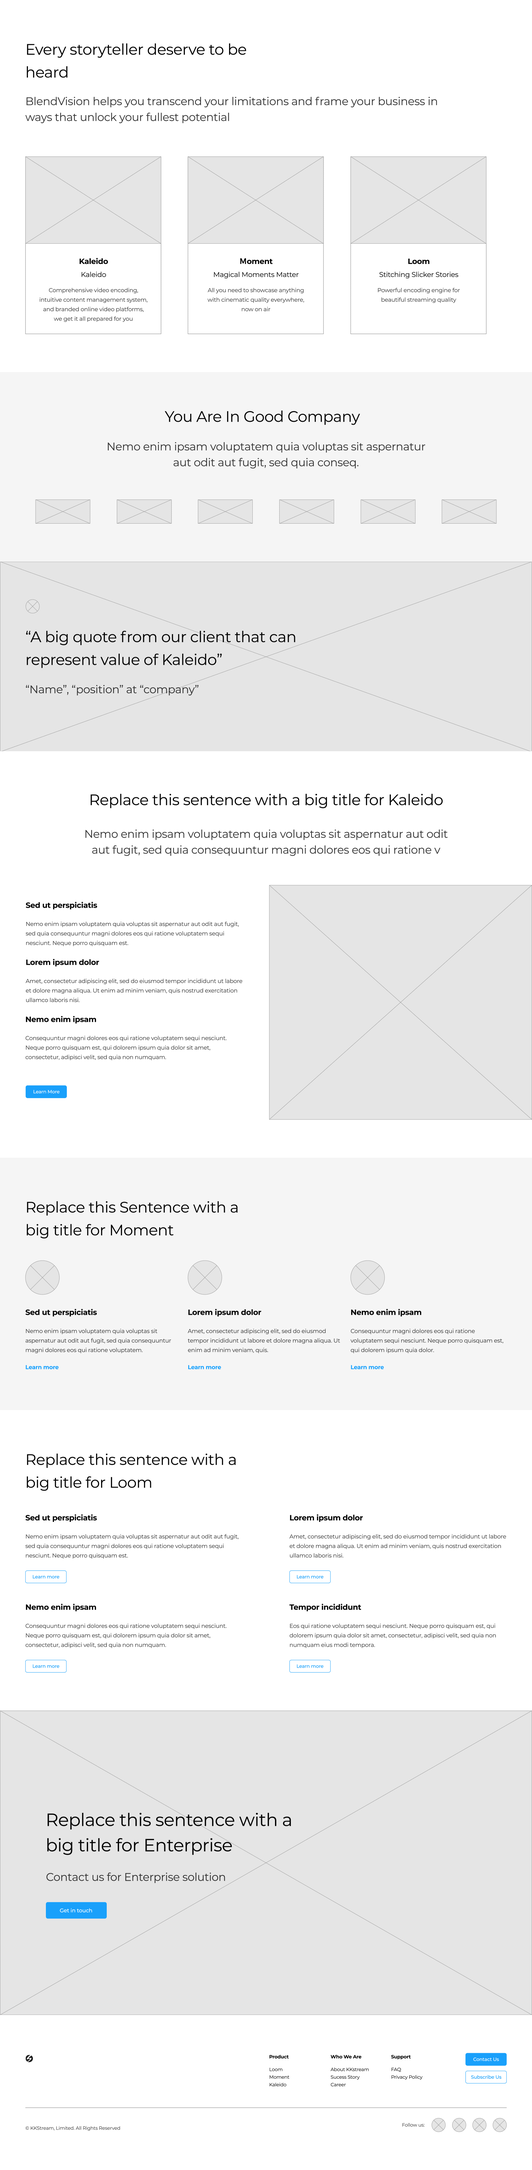
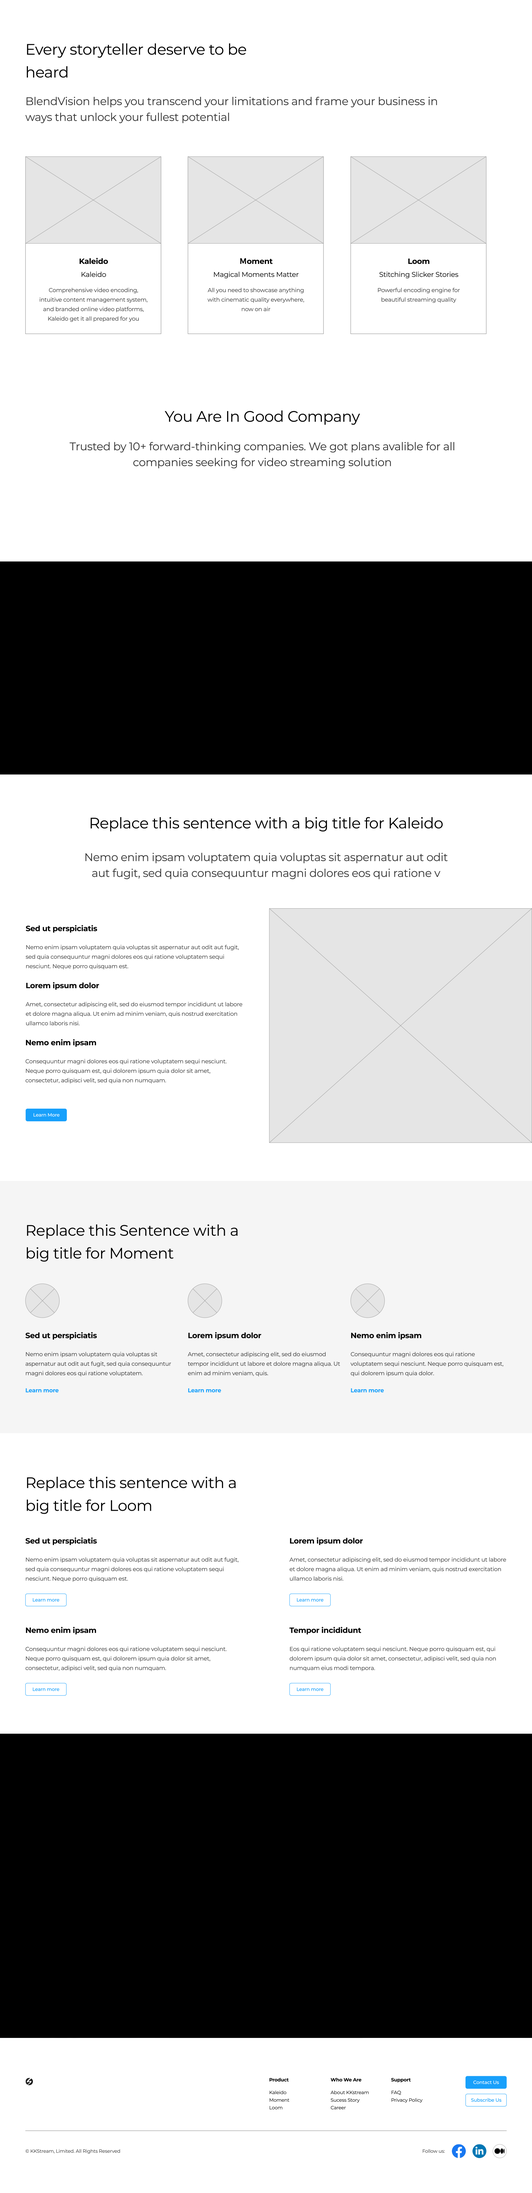
bv

diff --git a/KKSBV20210223A/css/index.css b/KKSBV20210223A/css/index.css
@@ -1,1 +1,1 @@
-.version.index{color:#0000FC;background-color:#1C5F7D;}#page{z-index:1;width:1600px;min-height:1000px;background-image:none;border-width:0px;border-color:#000000;background-color:transparent;margin-left:auto;margin-right:auto;}#pu8931{z-index:2;width:0.01px;padding-bottom:0px;margin-right:-10000px;margin-top:-230px;}#u8931{z-index:2;width:401px;height:180px;border-width:0px;border-color:transparent;background-color:transparent;max-width:100000px;position:relative;}#u19409{z-index:29;width:1600px;background-color:transparent;margin-top:108px;position:relative;}#pu19335{z-index:3;width:0.01px;}#u19335{z-index:3;min-height:6528px;background-color:#FFFFFF;}#u19335_align_to_page{margin-left:auto;margin-right:auto;position:relative;width:1600px;}#u19389{z-index:4;width:1600px;background-color:transparent;position:relative;margin-right:-10000px;margin-top:1px;}#u24342{z-index:6;width:1600px;background-color:transparent;position:relative;margin-right:-10000px;margin-top:6063px;}#u24106{z-index:8;width:1600px;background-color:transparent;position:relative;margin-right:-10000px;margin-top:1631px;}#u19473{z-index:10;width:170px;height:83px;position:relative;margin-right:-10000px;margin-top:3243px;left:54px;}#u19476{z-index:11;width:140px;height:49px;position:relative;margin-right:-10000px;margin-top:4089px;left:54px;}#u19485{z-index:12;width:140px;height:49px;position:relative;margin-right:-10000px;margin-top:4720px;left:68px;}#u19494{z-index:13;width:140px;height:49px;position:relative;margin-right:-10000px;margin-top:4987px;left:68px;}#u19488{z-index:14;width:140px;height:49px;position:relative;margin-right:-10000px;margin-top:4720px;left:861px;}#u19491{z-index:15;width:140px;height:49px;position:relative;margin-right:-10000px;margin-top:4987px;left:861px;}#u19479{z-index:16;width:140px;height:49px;position:relative;margin-right:-10000px;margin-top:4089px;left:544px;}#u19482{z-index:17;width:140px;height:49px;position:relative;margin-right:-10000px;margin-top:4089px;left:1033px;}#u19500{z-index:18;width:136px;height:52px;position:relative;margin-right:-10000px;margin-top:6169px;left:1394px;}#u19506{z-index:19;width:76px;height:22px;position:relative;margin-right:-10000px;margin-top:6214px;left:803px;}#u19590{z-index:20;width:30px;height:30px;position:relative;margin-right:-10000px;margin-top:6178px;left:73px;}#u19515{z-index:21;width:124px;height:22px;position:relative;margin-right:-10000px;margin-top:6214px;left:989px;}#u19518{z-index:22;width:124px;height:22px;position:relative;margin-right:-10000px;margin-top:6238px;left:989px;}#u19521{z-index:23;width:124px;height:22px;position:relative;margin-right:-10000px;margin-top:6262px;left:989px;}#u19509{z-index:24;width:76px;height:22px;position:relative;margin-right:-10000px;margin-top:6238px;left:803px;}#u19512{z-index:25;width:76px;height:22px;position:relative;margin-right:-10000px;margin-top:6262px;left:803px;}#u24332{z-index:26;width:1600px;background-color:transparent;position:relative;margin-right:-10000px;margin-top:5145px;}#u19497{z-index:28;width:211px;height:83px;position:relative;margin-right:-10000px;margin-top:5705px;left:123px;}#u19461{z-index:31;width:410px;height:531px;position:relative;margin-right:-10000px;margin-top:473px;left:74px;}#u19464{z-index:32;width:410px;height:531px;position:relative;margin-right:-10000px;margin-top:473px;left:564px;}#u19467{z-index:33;width:410px;height:531px;position:relative;margin-right:-10000px;margin-top:473px;left:1054px;}#u21382{z-index:34;width:1459px;background-color:#F5F5F5;padding-bottom:58px;position:relative;margin-right:-10000px;margin-top:1473px;left:71px;}#slideshowu23957{z-index:35;width:0.01px;height:82px;position:relative;margin-right:-10000px;left:-70px;}#u23962{position:absolute;width:1598px;height:82px;background-color:transparent;}#u23962popup{z-index:36;}#u23965{z-index:37;width:1598px;height:82px;border-width:0px;border-color:transparent;background-color:transparent;margin-right:-10000px;position:relative;}#u24072{z-index:39;width:1598px;height:82px;border-width:0px;border-color:transparent;background-color:transparent;margin-right:-10000px;position:relative;}.SSSlideLoading{background:url("../images/loading.gif?crc=3815509949") no-repeat center center;}#u24099{z-index:41;width:250px;height:82px;background:-webkit-gradient(linear, left center, right center, color-stop(50%, #F5F5F5),to(rgba(245,245,245,0)));background:-webkit-linear-gradient(left,#F5F5F5 50%,rgba(245,245,245,0) );background:linear-gradient(to right,#F5F5F5 50%,rgba(245,245,245,0) );filter:progid:DXImageTransform.Microsoft.gradient(startColorstr=#FFF5F5F5, endColorstr=#00F5F5F5, GradientType=1);-ms-filter:"progid:DXImageTransform.Microsoft.gradient(startColorstr='#FFF5F5F5', endColorstr='#00F5F5F5', GradientType=1)";position:relative;margin-right:-10000px;left:-71px;}.js body{visibility:hidden;}.js body.initialized{visibility:visible;}#u19335-bw{z-index:3;min-height:6528px;}#u24103{z-index:42;width:250px;height:82px;background:-webkit-gradient(linear, left center, right center, color-stop(50%, #F5F5F5),to(rgba(245,245,245,0)));background:-webkit-linear-gradient(left,#F5F5F5 50%,rgba(245,245,245,0) );background:linear-gradient(to right,#F5F5F5 50%,rgba(245,245,245,0) );filter:progid:DXImageTransform.Microsoft.gradient(startColorstr=#FFF5F5F5, endColorstr=#00F5F5F5, GradientType=1);-ms-filter:"progid:DXImageTransform.Microsoft.gradient(startColorstr='#FFF5F5F5', endColorstr='#00F5F5F5', GradientType=1)";-webkit-transform:matrix(-1,0,0,-1,250,82);-ms-transform:matrix(-1,0,0,-1,250,82);transform:matrix(-1,0,0,-1,250,82);position:relative;margin-right:-10000px;margin-top:1473px;left:1350px;}#pu19293{z-index:43;width:0.01px;height:0px;padding-bottom:233px;margin-right:-10000px;}#u19293{z-index:43;height:58px;background-color:#FFFFFF;position:fixed;top:0px;}#u19293-bw{z-index:43;}#u18805{z-index:44;width:1600px;background-color:transparent;position:fixed;top:0px;left:50%;margin-left:-800px;}#u19905{z-index:46;width:136px;height:52px;position:fixed;top:3px;left:50%;margin-left:594px;}#u19908{z-index:47;height:1px;background-color:#C8C8C8;position:fixed;top:58px;}#u19908-bw{z-index:47;}#u24490{z-index:48;width:399px;border-width:0px;border-color:transparent;background-color:transparent;padding-bottom:233px;position:fixed;top:0px;left:50%;margin-left:-204px;}#pamphletu21508{z-index:49;width:0.01px;height:58px;padding-bottom:175px;position:fixed;top:0px;left:50%;margin-left:-204px;}#u21515{position:absolute;width:127px;height:175px;background-color:transparent;top:58px;}#u21515popup{z-index:50;}#u21516{z-index:51;width:127px;height:175px;border-width:0px;border-color:transparent;background-color:#FFFFFF;margin-right:-10000px;position:relative;}#u21516_position_content{padding-top:21px;padding-bottom:20px;width:100%;}#u21571-5{z-index:52;width:127px;min-height:17px;background-color:transparent;color:#000000;line-height:16px;font-size:13px;text-align:center;font-family:Verdana, Tahoma, Geneva, sans-serif;position:relative;}#u21575-5{z-index:57;width:127px;min-height:17px;background-color:transparent;color:#000000;line-height:16px;font-size:13px;text-align:center;font-family:Verdana, Tahoma, Geneva, sans-serif;margin-top:41px;position:relative;}#u21580-5{z-index:62;width:127px;min-height:17px;background-color:transparent;color:#000000;line-height:16px;font-size:13px;text-align:center;font-family:Verdana, Tahoma, Geneva, sans-serif;margin-top:42px;position:relative;}#u21511{z-index:67;width:127px;height:58px;position:relative;margin-right:-10000px;}#u21512{position:absolute;width:127px;height:58px;border-width:0px;border-color:transparent;background-color:transparent;}.ie #u19473,.ie #u19476,.ie #u19485,.ie #u19494,.ie #u19488,.ie #u19491,.ie #u19479,.ie #u19482,.ie #u19500,.ie #u19506,.ie #u19590,.ie #u19515,.ie #u19518,.ie #u19521,.ie #u19509,.ie #u19512,.ie #u19497,.ie #u19461,.ie #u19464,.ie #u19467,.ie #u19905,.ie #u21512{background-color:#FFFFFF;opacity:0.01;-ms-filter:"progid:DXImageTransform.Microsoft.Alpha(Opacity=1)";filter:alpha(opacity=1);}#u21512:hover{border-width:0px;border-color:transparent;background-color:transparent;width:127px;height:58px;min-height:0px;margin:0px;}.ie #u21512:hover{background-color:#FFFFFF;opacity:0.01;-ms-filter:"progid:DXImageTransform.Microsoft.Alpha(Opacity=1)";filter:alpha(opacity=1);}#u21512:active{background-color:transparent;width:127px;height:58px;min-height:0px;margin:0px;}.ie #u21512:active{background-color:#FFFFFF;opacity:0.01;-ms-filter:"progid:DXImageTransform.Microsoft.Alpha(Opacity=1)";filter:alpha(opacity=1);}#u21512.PamphletThumbSelected{background-color:transparent;width:127px;height:58px;min-height:0px;margin:0px;}.SSFirstButton,.SSPreviousButton,.SSNextButton,.SSLastButton,.SSSlideLink,.SSCloseButton,.PamphletWidget .ThumbGroup .Thumb,.PamphletNextButton,.PamphletPrevButton,.PamphletCloseButton{cursor:pointer;}#pamphletu21715{z-index:82;width:0.01px;height:59px;padding-bottom:174px;position:fixed;top:0px;left:50%;margin-left:-77px;}#u21716{position:absolute;width:153px;height:175px;background-color:transparent;top:58px;}#u21716popup{z-index:83;}#u21717{z-index:84;width:153px;height:133.99999999999997px;border-width:0px;border-color:transparent;background-color:#FFFFFF;padding-top:21px;padding-bottom:20.00000000000003px;margin-right:-10000px;position:relative;}#u21718-5{z-index:85;width:153px;min-height:17px;background-color:transparent;color:#000000;line-height:16px;font-size:13px;text-align:center;font-family:Verdana, Tahoma, Geneva, sans-serif;position:relative;}#u21720-5{z-index:90;width:153px;min-height:17px;background-color:transparent;color:#000000;line-height:16px;font-size:13px;text-align:center;font-family:Verdana, Tahoma, Geneva, sans-serif;margin-top:40px;position:relative;}#u21719-5{z-index:95;width:153px;min-height:17px;background-color:transparent;color:#000000;line-height:16px;font-size:13px;text-align:center;font-family:Verdana, Tahoma, Geneva, sans-serif;margin-top:42px;position:relative;}#u21723{z-index:100;width:153px;height:58px;position:relative;margin-right:-10000px;}#u21724{position:absolute;width:153px;height:58px;border-width:0px;border-color:transparent;background-color:transparent;}.ie #u21512.PamphletThumbSelected,.ie #u21724{background-color:#FFFFFF;opacity:0.01;-ms-filter:"progid:DXImageTransform.Microsoft.Alpha(Opacity=1)";filter:alpha(opacity=1);}#u21724:hover{border-width:0px;border-color:transparent;background-color:transparent;width:153px;height:58px;min-height:0px;margin:0px;}.ie #u21724:hover{background-color:#FFFFFF;opacity:0.01;-ms-filter:"progid:DXImageTransform.Microsoft.Alpha(Opacity=1)";filter:alpha(opacity=1);}#u21724:active{background-color:transparent;width:153px;height:58px;min-height:0px;margin:0px;}.ie #u21724:active{background-color:#FFFFFF;opacity:0.01;-ms-filter:"progid:DXImageTransform.Microsoft.Alpha(Opacity=1)";filter:alpha(opacity=1);}#u21724.PamphletThumbSelected{background-color:transparent;width:153px;height:58px;min-height:0px;margin:0px;}#pamphletu21757{z-index:69;width:0.01px;height:58px;padding-bottom:116px;position:fixed;top:0px;left:50%;margin-left:76px;}#u21758{position:absolute;width:119px;height:116px;background-color:transparent;top:58px;}#u21758popup{z-index:70;}#u21759{z-index:71;width:119px;height:74.50000000000003px;border-width:0px;border-color:transparent;background-color:#FFFFFF;padding-top:21px;padding-bottom:20.49999999999997px;margin-right:-10000px;position:relative;}#u21760-4{z-index:72;width:119px;min-height:17px;background-color:transparent;color:#000000;line-height:16px;font-size:13px;text-align:center;font-family:Verdana, Tahoma, Geneva, sans-serif;position:relative;}#u21762-4{z-index:76;width:119px;min-height:17px;background-color:transparent;color:#000000;line-height:16px;font-size:13px;text-align:center;font-family:Verdana, Tahoma, Geneva, sans-serif;margin-top:40px;position:relative;}#u21571-3,#u21575-3,#u21580-3,#u21718-3,#u21720-3,#u21719-3,#u21760-2,#u21762-2{line-height:0px;}#u21571,#u21575,#u21580,#u21718,#u21720,#u21719,#u21760,#u21762{font-size:12px;line-height:14px;}#u21765{z-index:80;width:119px;height:58px;position:relative;margin-right:-10000px;}#u21766{position:absolute;width:119px;height:58px;border-width:0px;border-color:transparent;background-color:transparent;}.ie #u21724.PamphletThumbSelected,.ie #u21766{background-color:#FFFFFF;opacity:0.01;-ms-filter:"progid:DXImageTransform.Microsoft.Alpha(Opacity=1)";filter:alpha(opacity=1);}#u21766:hover{border-width:0px;border-color:transparent;background-color:transparent;width:119px;height:58px;min-height:0px;margin:0px;}.ie #u21766:hover{background-color:#FFFFFF;opacity:0.01;-ms-filter:"progid:DXImageTransform.Microsoft.Alpha(Opacity=1)";filter:alpha(opacity=1);}#u21766:active{background-color:transparent;width:119px;height:58px;min-height:0px;margin:0px;}.ie #u21766:active{background-color:#FFFFFF;opacity:0.01;-ms-filter:"progid:DXImageTransform.Microsoft.Alpha(Opacity=1)";filter:alpha(opacity=1);}#u21766.PamphletThumbSelected{background-color:transparent;width:119px;height:58px;min-height:0px;margin:0px;}.ie #u21766.PamphletThumbSelected{background-color:#FFFFFF;opacity:0.01;-ms-filter:"progid:DXImageTransform.Microsoft.Alpha(Opacity=1)";filter:alpha(opacity=1);}.css_verticalspacer .verticalspacer{height:calc(100vh - 7386px);}#muse_css_mq,.html{background-color:#FFFFFF;}body{position:relative;min-width:1600px;}
+.version.index{color:#0000EF;background-color:#42D7CC;}#page{z-index:1;width:1600px;min-height:1000px;background-image:none;border-width:0px;border-color:#000000;background-color:transparent;margin-left:auto;margin-right:auto;}#pu8931{z-index:2;width:0.01px;margin-right:-10000px;margin-top:-230px;}#u8931{z-index:2;width:401px;height:180px;border-width:0px;border-color:transparent;background-color:transparent;max-width:100000px;position:relative;}#u19409{z-index:40;width:1600px;background-color:transparent;margin-top:108px;position:relative;}#pu19335{z-index:3;width:0.01px;margin-top:1px;}#u19335{z-index:3;min-height:6593px;background-color:#FFFFFF;}#u19335_align_to_page{margin-left:auto;margin-right:auto;position:relative;width:1600px;}#u25745{z-index:4;width:1600px;background-color:transparent;position:relative;margin-right:-10000px;}#u24342{z-index:6;width:1600px;background-color:transparent;position:relative;margin-right:-10000px;margin-top:6128px;}#u24106{z-index:8;width:1600px;background-color:transparent;position:relative;margin-right:-10000px;margin-top:1690px;}#u19473{z-index:10;width:170px;height:83px;position:relative;margin-right:-10000px;margin-top:3311px;left:54px;}#u19476{z-index:11;width:140px;height:49px;position:relative;margin-right:-10000px;margin-top:4157px;left:54px;}#u19485{z-index:12;width:140px;height:49px;position:relative;margin-right:-10000px;margin-top:4785px;left:68px;}#u19494{z-index:13;width:140px;height:49px;position:relative;margin-right:-10000px;margin-top:5052px;left:68px;}#u19488{z-index:14;width:140px;height:49px;position:relative;margin-right:-10000px;margin-top:4785px;left:861px;}#u19491{z-index:15;width:140px;height:49px;position:relative;margin-right:-10000px;margin-top:5052px;left:861px;}#u19479{z-index:16;width:140px;height:49px;position:relative;margin-right:-10000px;margin-top:4157px;left:544px;}#u19482{z-index:17;width:140px;height:49px;position:relative;margin-right:-10000px;margin-top:4157px;left:1033px;}#u19500{z-index:18;width:136px;height:52px;position:relative;margin-right:-10000px;margin-top:6234px;left:1394px;}#u19506{z-index:19;width:76px;height:22px;position:relative;margin-right:-10000px;margin-top:6279px;left:803px;}#u19590{z-index:20;width:30px;height:30px;position:relative;margin-right:-10000px;margin-top:6243px;left:73px;}#u19515{z-index:21;width:124px;height:22px;position:relative;margin-right:-10000px;margin-top:6279px;left:989px;}#u19518{z-index:22;width:124px;height:22px;position:relative;margin-right:-10000px;margin-top:6303px;left:989px;}#u19521{z-index:23;width:124px;height:22px;position:relative;margin-right:-10000px;margin-top:6327px;left:989px;}#u19509{z-index:24;width:76px;height:22px;position:relative;margin-right:-10000px;margin-top:6303px;left:803px;}#u19512{z-index:25;width:76px;height:22px;position:relative;margin-right:-10000px;margin-top:6327px;left:803px;}#u24332{z-index:26;width:1600px;background-color:transparent;position:relative;margin-right:-10000px;margin-top:5212px;}#u19497{z-index:28;width:211px;height:83px;position:relative;margin-right:-10000px;margin-top:5771px;left:123px;}#u19461{z-index:29;width:410px;height:531px;position:relative;margin-right:-10000px;margin-top:472px;left:74px;}#u19464{z-index:30;width:410px;height:531px;position:relative;margin-right:-10000px;margin-top:472px;left:564px;}#u19467{z-index:31;width:410px;height:531px;position:relative;margin-right:-10000px;margin-top:472px;left:1054px;}#slideshowu23957{z-index:32;width:0.01px;height:82px;position:relative;margin-right:-10000px;margin-top:1473px;left:1px;}#u23962{position:absolute;width:1598px;height:82px;background-color:transparent;}#u23962popup{z-index:33;}#u23965{z-index:34;width:1598px;height:82px;border-width:0px;border-color:transparent;background-color:transparent;margin-right:-10000px;position:relative;}#u24072{z-index:36;width:1598px;height:82px;border-width:0px;border-color:transparent;background-color:transparent;margin-right:-10000px;position:relative;}.SSSlideLoading{background:url("../images/loading.gif?crc=3815509949") no-repeat center center;}#u24099{z-index:38;width:250px;height:82px;background:-webkit-gradient(linear, left center, right center, color-stop(50%, #FFFFFF),to(rgba(255,255,255,0)));background:-webkit-linear-gradient(left,#FFFFFF 50%,rgba(255,255,255,0) );background:linear-gradient(to right,#FFFFFF 50%,rgba(255,255,255,0) );filter:progid:DXImageTransform.Microsoft.gradient(startColorstr=#FFFFFFFF, endColorstr=#00FFFFFF, GradientType=1);-ms-filter:"progid:DXImageTransform.Microsoft.gradient(startColorstr='#FFFFFFFF', endColorstr='#00FFFFFF', GradientType=1)";position:relative;margin-right:-10000px;margin-top:1473px;}.js body{visibility:hidden;}.js body.initialized{visibility:visible;}#u19335-bw{z-index:3;min-height:6593px;}#u24103{z-index:39;width:250px;height:82px;background:-webkit-gradient(linear, left center, right center, color-stop(50%, #FFFFFF),to(rgba(255,255,255,0)));background:-webkit-linear-gradient(left,#FFFFFF 50%,rgba(255,255,255,0) );background:linear-gradient(to right,#FFFFFF 50%,rgba(255,255,255,0) );filter:progid:DXImageTransform.Microsoft.gradient(startColorstr=#FFFFFFFF, endColorstr=#00FFFFFF, GradientType=1);-ms-filter:"progid:DXImageTransform.Microsoft.gradient(startColorstr='#FFFFFFFF', endColorstr='#00FFFFFF', GradientType=1)";-webkit-transform:matrix(-1,0,0,-1,250,82);-ms-transform:matrix(-1,0,0,-1,250,82);transform:matrix(-1,0,0,-1,250,82);position:relative;margin-right:-10000px;margin-top:1472px;left:1350px;}#pu19293{z-index:42;width:0.01px;height:0px;padding-bottom:233px;margin-right:-10000px;}#u19293{z-index:42;height:58px;background-color:#FFFFFF;position:fixed;top:0px;}#u19293-bw{z-index:42;}#u18805{z-index:43;width:1600px;background-color:transparent;position:fixed;top:0px;left:50%;margin-left:-800px;}#u19905{z-index:45;width:136px;height:52px;position:fixed;top:3px;left:50%;margin-left:594px;}#u19908{z-index:46;height:1px;background-color:#C8C8C8;position:fixed;top:58px;}#u19908-bw{z-index:46;}#u24490{z-index:47;width:399px;border-width:0px;border-color:transparent;background-color:transparent;padding-bottom:233px;position:fixed;top:0px;left:50%;margin-left:-204px;}#pamphletu21508{z-index:48;width:0.01px;height:58px;padding-bottom:175px;position:fixed;top:0px;left:50%;margin-left:-204px;}#u21515{position:absolute;width:127px;height:175px;background-color:transparent;top:58px;}#u21515popup{z-index:49;}#u21516{z-index:50;width:127px;height:175px;border-width:0px;border-color:transparent;background-color:#FFFFFF;margin-right:-10000px;position:relative;}#u21516_position_content{padding-top:21px;padding-bottom:20px;width:100%;}#u21571-5{z-index:51;width:127px;min-height:17px;background-color:transparent;color:#000000;line-height:16px;font-size:13px;text-align:center;font-family:Verdana, Tahoma, Geneva, sans-serif;position:relative;}#u21575-5{z-index:56;width:127px;min-height:17px;background-color:transparent;color:#000000;line-height:16px;font-size:13px;text-align:center;font-family:Verdana, Tahoma, Geneva, sans-serif;margin-top:41px;position:relative;}#u21580-5{z-index:61;width:127px;min-height:17px;background-color:transparent;color:#000000;line-height:16px;font-size:13px;text-align:center;font-family:Verdana, Tahoma, Geneva, sans-serif;margin-top:42px;position:relative;}#u21511{z-index:66;width:127px;height:58px;position:relative;margin-right:-10000px;}#u21512{position:absolute;width:127px;height:58px;border-width:0px;border-color:transparent;background-color:transparent;}.ie #u19473,.ie #u19476,.ie #u19485,.ie #u19494,.ie #u19488,.ie #u19491,.ie #u19479,.ie #u19482,.ie #u19500,.ie #u19506,.ie #u19590,.ie #u19515,.ie #u19518,.ie #u19521,.ie #u19509,.ie #u19512,.ie #u19497,.ie #u19461,.ie #u19464,.ie #u19467,.ie #u19905,.ie #u21512{background-color:#FFFFFF;opacity:0.01;-ms-filter:"progid:DXImageTransform.Microsoft.Alpha(Opacity=1)";filter:alpha(opacity=1);}#u21512:hover{border-width:0px;border-color:transparent;background-color:transparent;width:127px;height:58px;min-height:0px;margin:0px;}.ie #u21512:hover{background-color:#FFFFFF;opacity:0.01;-ms-filter:"progid:DXImageTransform.Microsoft.Alpha(Opacity=1)";filter:alpha(opacity=1);}#u21512:active{background-color:transparent;width:127px;height:58px;min-height:0px;margin:0px;}.ie #u21512:active{background-color:#FFFFFF;opacity:0.01;-ms-filter:"progid:DXImageTransform.Microsoft.Alpha(Opacity=1)";filter:alpha(opacity=1);}#u21512.PamphletThumbSelected{background-color:transparent;width:127px;height:58px;min-height:0px;margin:0px;}.SSFirstButton,.SSPreviousButton,.SSNextButton,.SSLastButton,.SSSlideLink,.SSCloseButton,.PamphletWidget .ThumbGroup .Thumb,.PamphletNextButton,.PamphletPrevButton,.PamphletCloseButton{cursor:pointer;}#pamphletu21715{z-index:81;width:0.01px;height:59px;padding-bottom:174px;position:fixed;top:0px;left:50%;margin-left:-77px;}#u21716{position:absolute;width:153px;height:175px;background-color:transparent;top:58px;}#u21716popup{z-index:82;}#u21717{z-index:83;width:153px;height:133.99999999999997px;border-width:0px;border-color:transparent;background-color:#FFFFFF;padding-top:21px;padding-bottom:20.00000000000003px;margin-right:-10000px;position:relative;}#u21718-5{z-index:84;width:153px;min-height:17px;background-color:transparent;color:#000000;line-height:16px;font-size:13px;text-align:center;font-family:Verdana, Tahoma, Geneva, sans-serif;position:relative;}#u21720-5{z-index:89;width:153px;min-height:17px;background-color:transparent;color:#000000;line-height:16px;font-size:13px;text-align:center;font-family:Verdana, Tahoma, Geneva, sans-serif;margin-top:40px;position:relative;}#u21719-5{z-index:94;width:153px;min-height:17px;background-color:transparent;color:#000000;line-height:16px;font-size:13px;text-align:center;font-family:Verdana, Tahoma, Geneva, sans-serif;margin-top:42px;position:relative;}#u21723{z-index:99;width:153px;height:58px;position:relative;margin-right:-10000px;}#u21724{position:absolute;width:153px;height:58px;border-width:0px;border-color:transparent;background-color:transparent;}.ie #u21512.PamphletThumbSelected,.ie #u21724{background-color:#FFFFFF;opacity:0.01;-ms-filter:"progid:DXImageTransform.Microsoft.Alpha(Opacity=1)";filter:alpha(opacity=1);}#u21724:hover{border-width:0px;border-color:transparent;background-color:transparent;width:153px;height:58px;min-height:0px;margin:0px;}.ie #u21724:hover{background-color:#FFFFFF;opacity:0.01;-ms-filter:"progid:DXImageTransform.Microsoft.Alpha(Opacity=1)";filter:alpha(opacity=1);}#u21724:active{background-color:transparent;width:153px;height:58px;min-height:0px;margin:0px;}.ie #u21724:active{background-color:#FFFFFF;opacity:0.01;-ms-filter:"progid:DXImageTransform.Microsoft.Alpha(Opacity=1)";filter:alpha(opacity=1);}#u21724.PamphletThumbSelected{background-color:transparent;width:153px;height:58px;min-height:0px;margin:0px;}#pamphletu21757{z-index:68;width:0.01px;height:58px;padding-bottom:116px;position:fixed;top:0px;left:50%;margin-left:76px;}#u21758{position:absolute;width:119px;height:116px;background-color:transparent;top:58px;}#u21758popup{z-index:69;}#u21759{z-index:70;width:119px;height:74.50000000000003px;border-width:0px;border-color:transparent;background-color:#FFFFFF;padding-top:21px;padding-bottom:20.49999999999997px;margin-right:-10000px;position:relative;}#u21760-4{z-index:71;width:119px;min-height:17px;background-color:transparent;color:#000000;line-height:16px;font-size:13px;text-align:center;font-family:Verdana, Tahoma, Geneva, sans-serif;position:relative;}#u21762-4{z-index:75;width:119px;min-height:17px;background-color:transparent;color:#000000;line-height:16px;font-size:13px;text-align:center;font-family:Verdana, Tahoma, Geneva, sans-serif;margin-top:40px;position:relative;}#u21571-3,#u21575-3,#u21580-3,#u21718-3,#u21720-3,#u21719-3,#u21760-2,#u21762-2{line-height:0px;}#u21571,#u21575,#u21580,#u21718,#u21720,#u21719,#u21760,#u21762{font-size:12px;line-height:14px;}#u21765{z-index:79;width:119px;height:58px;position:relative;margin-right:-10000px;}#u21766{position:absolute;width:119px;height:58px;border-width:0px;border-color:transparent;background-color:transparent;}.ie #u21724.PamphletThumbSelected,.ie #u21766{background-color:#FFFFFF;opacity:0.01;-ms-filter:"progid:DXImageTransform.Microsoft.Alpha(Opacity=1)";filter:alpha(opacity=1);}#u21766:hover{border-width:0px;border-color:transparent;background-color:transparent;width:119px;height:58px;min-height:0px;margin:0px;}.ie #u21766:hover{background-color:#FFFFFF;opacity:0.01;-ms-filter:"progid:DXImageTransform.Microsoft.Alpha(Opacity=1)";filter:alpha(opacity=1);}#u21766:active{background-color:transparent;width:119px;height:58px;min-height:0px;margin:0px;}.ie #u21766:active{background-color:#FFFFFF;opacity:0.01;-ms-filter:"progid:DXImageTransform.Microsoft.Alpha(Opacity=1)";filter:alpha(opacity=1);}#u21766.PamphletThumbSelected{background-color:transparent;width:119px;height:58px;min-height:0px;margin:0px;}.ie #u21766.PamphletThumbSelected{background-color:#FFFFFF;opacity:0.01;-ms-filter:"progid:DXImageTransform.Microsoft.Alpha(Opacity=1)";filter:alpha(opacity=1);}.css_verticalspacer .verticalspacer{height:calc(100vh - 7451px);}#muse_css_mq,.html{background-color:#FFFFFF;}body{position:relative;min-width:1600px;}

diff --git a/KKSBV20210223A/index.html b/KKSBV20210223A/index.html
@@ -17,7 +17,7 @@ if(typeof Muse == "undefined") window.Muse = {}; window.Muse.assets = {"required
   <title>KKStream</title>
   <!-- CSS -->
   <link rel="stylesheet" type="text/css" href="css/site_global.css?crc=3779915718"/>
-  <link rel="stylesheet" type="text/css" href="css/index.css?crc=4229717885" id="pagesheet"/>
+  <link rel="stylesheet" type="text/css" href="css/index.css?crc=4014135244" id="pagesheet"/>
     <!--HTML Widget code-->
   
  <style>
@@ -59,8 +59,8 @@ Your browser does not support the video tag.
      <div class="browser_width grpelem" id="u19335-bw">
       <div id="u19335"><!-- group -->
        <div class="clearfix" id="u19335_align_to_page">
-        <div class="clip_frame grpelem" id="u19389"><!-- image -->
-         <img class="block" id="u19389_img" src="images/1.png?crc=10393625" alt="" width="1600" height="6527"/>
+        <div class="clip_frame grpelem" id="u25745"><!-- image -->
+         <img class="block" id="u25745_img" src="images/1.png?crc=4248485632" alt="" width="1600" height="6593"/>
         </div>
         <div class="clip_frame grpelem" id="u24342"><!-- image -->
          <img class="block" id="u24342_img" src="images/footer.png?crc=3763534115" alt="" width="1600" height="465"/>
@@ -91,21 +91,19 @@ Your browser does not support the video tag.
         <a class="nonblock nontext grpelem" id="u19461" href="kaleido.html"><!-- simple frame --></a>
         <a class="nonblock nontext grpelem" id="u19464" href="moment.html"><!-- simple frame --></a>
         <a class="nonblock nontext grpelem" id="u19467" href="loom.html"><!-- simple frame --></a>
-        <div class="clearfix grpelem" id="u21382"><!-- group -->
-         <div class="SlideShowWidget clearfix grpelem" id="slideshowu23957"><!-- none box -->
-          <div class="popup_anchor" id="u23962popup">
-           <div class="SlideShowContentPanel clearfix" id="u23962"><!-- stack box -->
-            <div class="SSSlide clip_frame grpelem" id="u23965"><!-- image -->
-             <img class="block ImageInclude" id="u23965_img" data-src="images/all-logos-1.png?crc=418929257" data-hidpi-src="images/all-logos-1_2x.png?crc=435557787" src="images/blank.gif?crc=4208392903" alt="" data-width="1598" data-height="82"/>
-            </div>
-            <div class="SSSlide invi clip_frame grpelem" id="u24072"><!-- image -->
-             <img class="block ImageInclude" id="u24072_img" data-src="images/all-logos-2.png?crc=418929257" data-hidpi-src="images/all-logos-2_2x.png?crc=435557787" src="images/blank.gif?crc=4208392903" alt="" data-width="1598" data-height="82"/>
-            </div>
+        <div class="SlideShowWidget clearfix grpelem" id="slideshowu23957"><!-- none box -->
+         <div class="popup_anchor" id="u23962popup">
+          <div class="SlideShowContentPanel clearfix" id="u23962"><!-- stack box -->
+           <div class="SSSlide clip_frame grpelem" id="u23965"><!-- image -->
+            <img class="block ImageInclude" id="u23965_img" data-src="images/all-logos-1.png?crc=418929257" data-hidpi-src="images/all-logos-1_2x.png?crc=435557787" src="images/blank.gif?crc=4208392903" alt="" data-width="1598" data-height="82"/>
+           </div>
+           <div class="SSSlide invi clip_frame grpelem" id="u24072"><!-- image -->
+            <img class="block ImageInclude" id="u24072_img" data-src="images/all-logos-2.png?crc=418929257" data-hidpi-src="images/all-logos-2_2x.png?crc=435557787" src="images/blank.gif?crc=4208392903" alt="" data-width="1598" data-height="82"/>
            </div>
           </div>
          </div>
-         <div class="gradient grpelem" id="u24099"><!-- simple frame --></div>
         </div>
+        <div class="gradient grpelem" id="u24099"><!-- simple frame --></div>
        </div>
       </div>
      </div>
@@ -191,7 +189,7 @@ Your browser does not support the video tag.
      </div>
     </div>
    </div>
-   <div class="verticalspacer" data-offset-top="7386" data-content-above-spacer="7386" data-content-below-spacer="0"></div>
+   <div class="verticalspacer" data-offset-top="7452" data-content-above-spacer="7451" data-content-below-spacer="0"></div>
   </div>
   <!-- Other scripts -->
   <script type="text/javascript">

diff --git a/KKSBV20210223A/story.html b/KKSBV20210223A/story.html
@@ -104,7 +104,7 @@ if(typeof Muse == "undefined") window.Muse = {}; window.Muse.assets = {"required
    </div>
    <div class="clearfix grpelem" id="pu25620"><!-- group -->
     <div class="clip_frame grpelem" id="u25620"><!-- image -->
-     <img class="block" id="u25620_img" src="images/6.png?crc=4065838691" alt="" width="1600" height="8151"/>
+     <img class="block" id="u25620_img" src="images/6.png?crc=3990038552" alt="" width="1600" height="8151"/>
     </div>
     <div class="clip_frame grpelem" id="u24454"><!-- image -->
      <img class="block" id="u24454_img" src="images/footer.png?crc=3763534115" alt="" width="1600" height="465"/>
